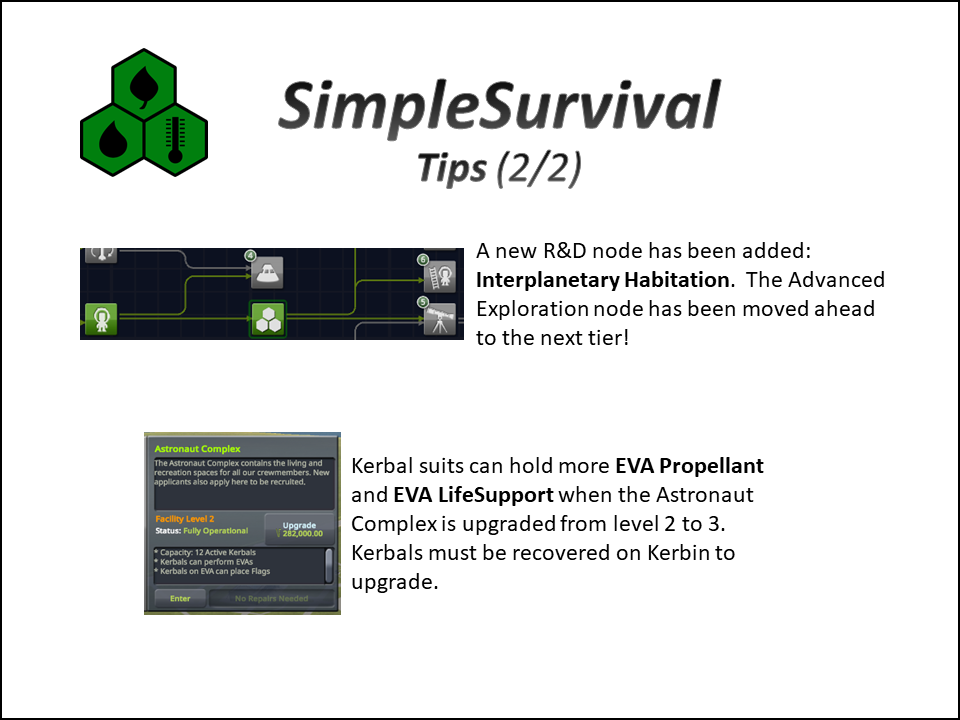
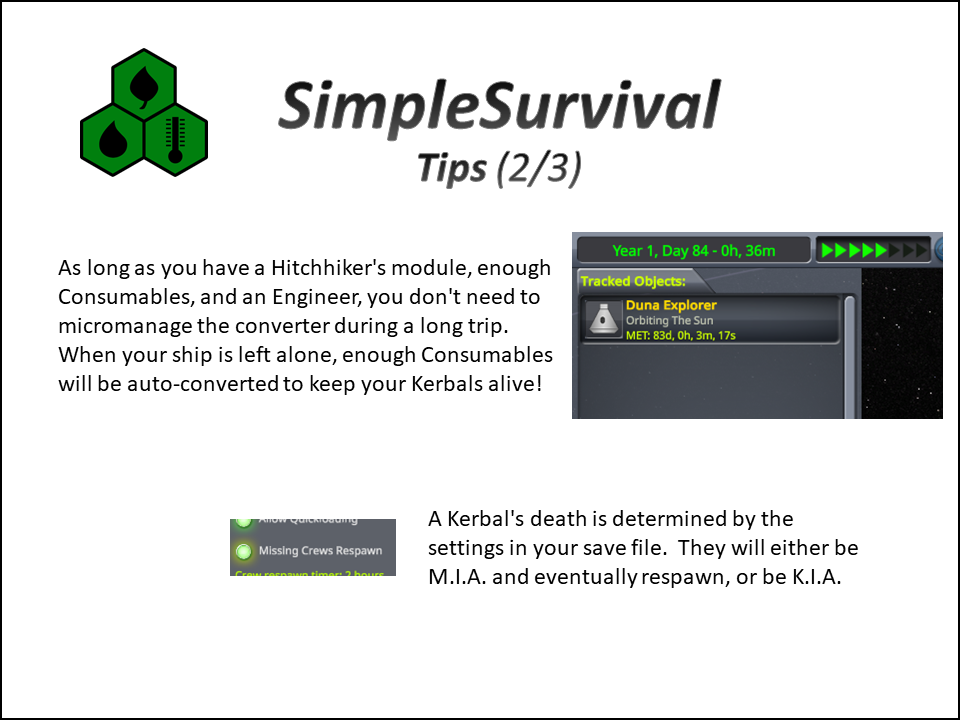
Update user guide with Kerbal death info

Changed region(s): [[0.0625, 0.3056, 1.0, 0.5806], [0.125, 0.5806, 0.9062, 0.8556], [0.5625, 0.2139, 0.5938, 0.275]]

diff --git a/README.md b/README.md
@@ -49,3 +49,7 @@ SimpleSurvival is a Kerbal Space Program mod which adds a simple life support me
 ----------------------
 
 ![User Guide 11](/docs/img/Slide11.PNG)
+
+----------------------
+
+![User Guide 11](/docs/img/Slide12.PNG)
